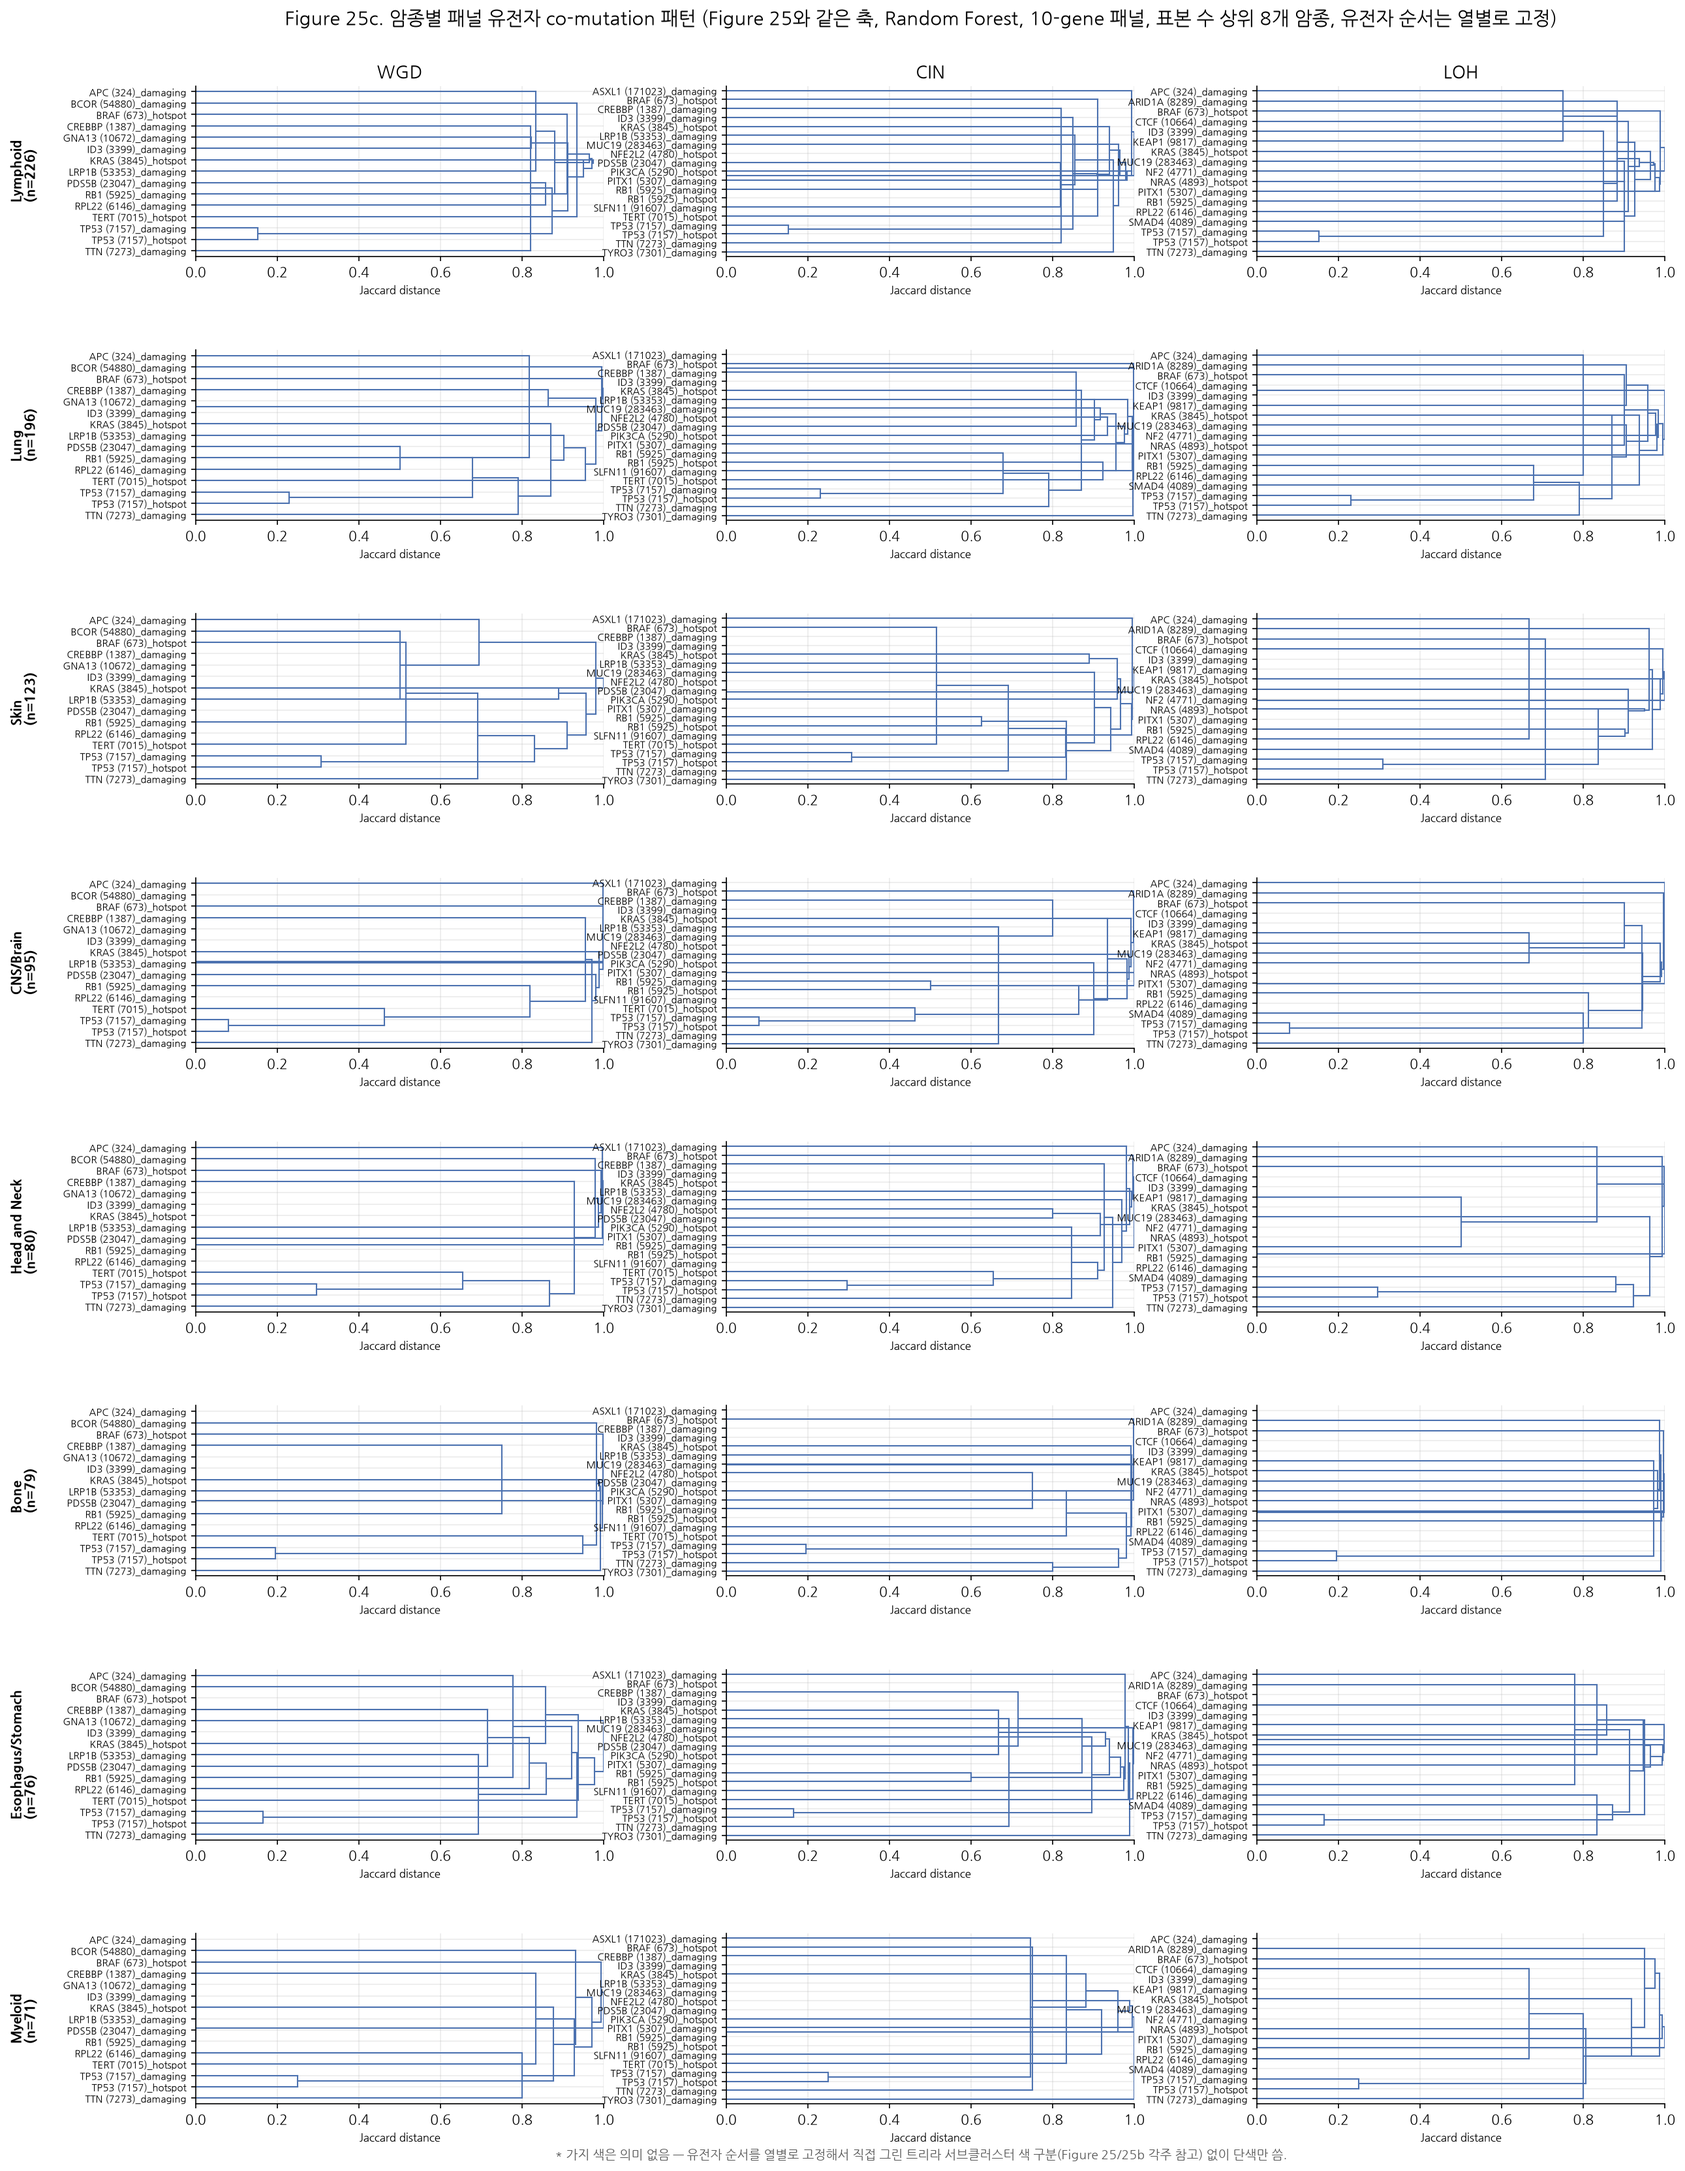
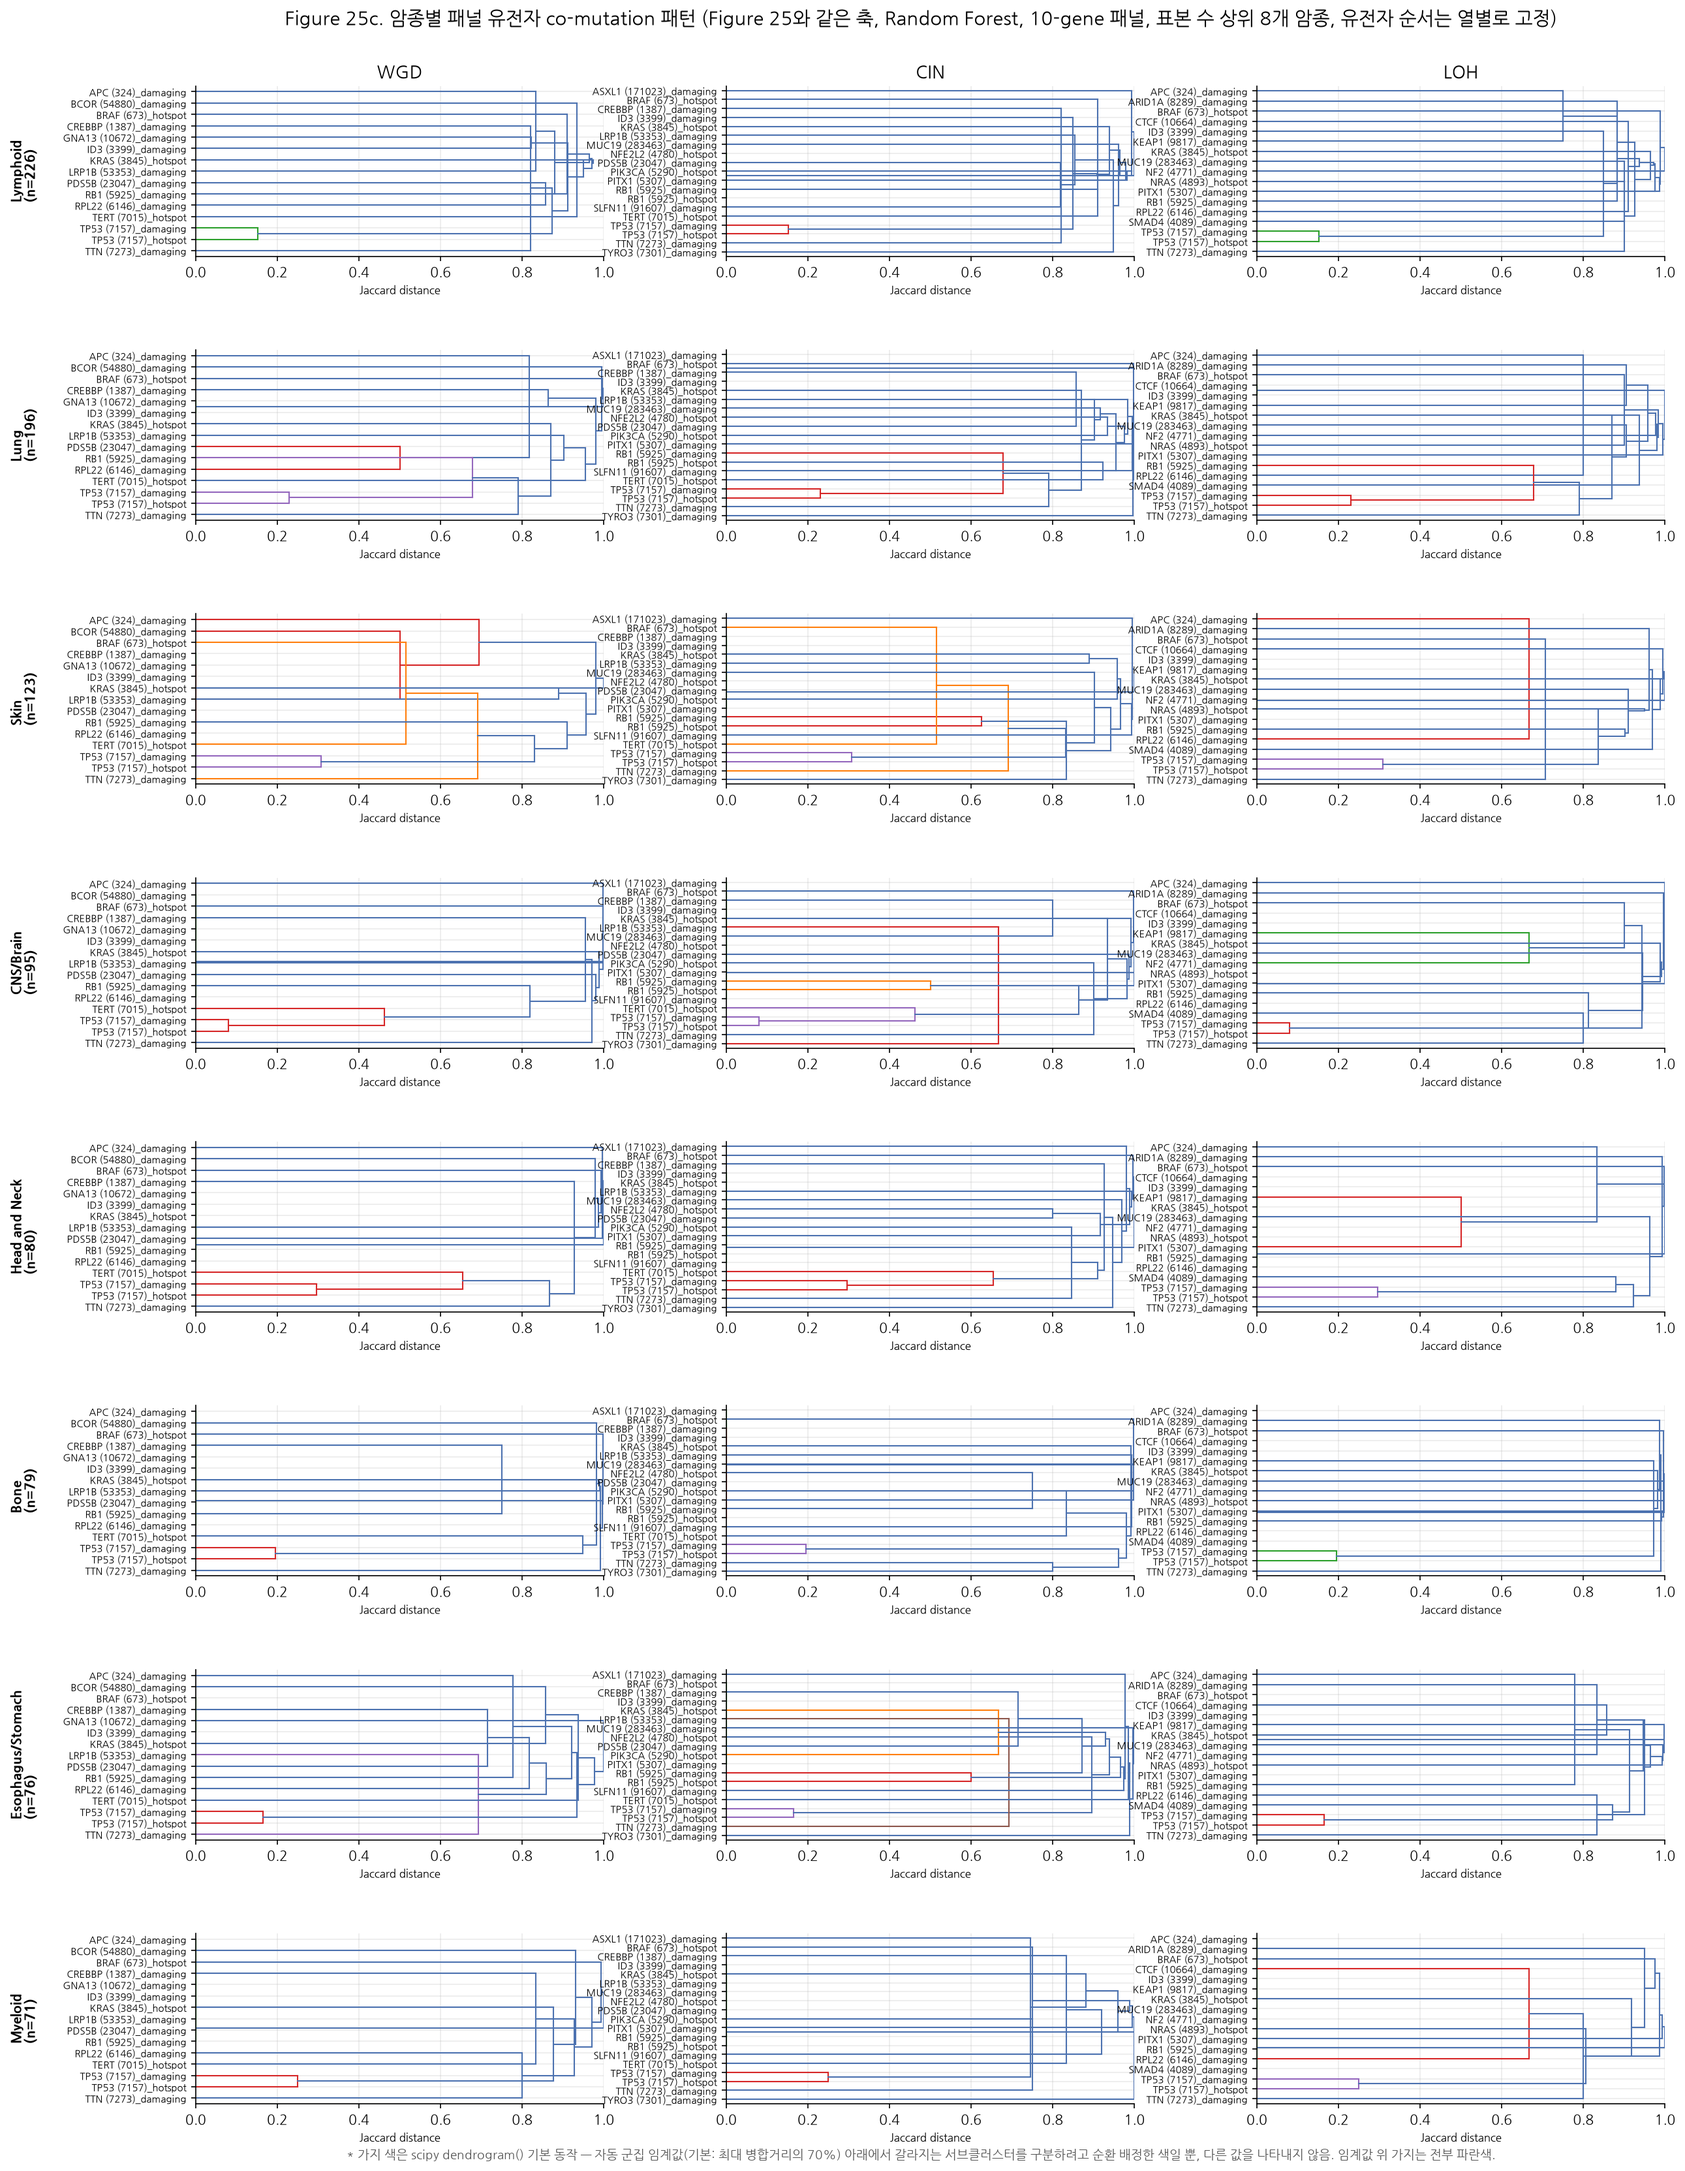
scripts: Fig25c에 Fig25/25b와 같은 서브클러스터 색 추가
draw_fixed_order_dendrogram()이 이제 scipy dendrogram()과 같은 규칙으로
색을 칠한다 — threshold(기본 최대 병합거리의 70%) 아래 서브클러스터마다
색 순환 배정, 위는 전부 기본색. 고정 잎 순서는 그대로 유지. 각주도
Fig25/25b와 같은 COLOR_NOTE로 통일.

Changed region(s): [[0.2169, 0.991, 0.5577, 1.0], [0.5887, 0.991, 0.8675, 1.0]]

diff --git a/scripts/48_plot_selection_dendrogram.py b/scripts/48_plot_selection_dendrogram.py
@@ -27,6 +27,8 @@ from pathlib import Path
 
 sys.path.insert(0, str(Path(__file__).resolve().parents[1]))
 
+import itertools
+
 import matplotlib.pyplot as plt
 import numpy as np
 import pandas as pd
@@ -103,8 +105,11 @@ def plot_lineage_dendrogram(model: str, panel_size: int) -> Path:
     return save(fig, f"fig25b_lineage_dendrogram_{model}_panel{panel_size}.png")
 
 
+CLUSTER_PALETTE = ("#2ca02c", "#d62728", "#9467bd", "#ff7f0e", "#8c564b", "#e377c2", "#bcbd22", "#17becf")
+
+
 def draw_fixed_order_dendrogram(ax, Z: np.ndarray, labels: list[str], fixed_order: list[str],
-                                 color: str = "#4c72b0") -> None:
+                                 above_color: str = "#4c72b0", threshold: float | None = None) -> None:
     """`labels` 순서의 잎을 `fixed_order`가 정한 y위치에 강제로 그린다.
 
     scipy dendrogram()은 잎 순서를 군집 결과에 따라 매번 다르게 정하므로,
@@ -112,22 +117,41 @@ def draw_fixed_order_dendrogram(ax, Z: np.ndarray, labels: list[str], fixed_orde
     Z 그대로 쓰되, 각 리프의 y좌표만 외부에서 고정하고 내부 노드는 자식의
     y좌표 평균으로 재귀 계산해 직접 선을 그린다 — 선이 교차할 수 있지만
     병합 구조(거리)는 정확하다.
+
+    색은 scipy dendrogram()과 같은 규칙(COLOR_NOTE 참고): threshold(기본
+    최대 병합거리의 70%) 아래에서 갈라지는 서브클러스터마다 색을 순환
+    배정하고, threshold 위 가지는 전부 above_color.
     """
     pos = {label: i for i, label in enumerate(fixed_order)}
     tree = to_tree(Z)
+    if threshold is None:
+        threshold = 0.7 * Z[:, 2].max() if len(Z) else 0.0
+    color_cycle = itertools.cycle(CLUSTER_PALETTE)
+    cluster_color = {}
 
-    def recurse(node):
+    def color_for(cluster_id: int) -> str:
+        if cluster_id not in cluster_color:
+            cluster_color[cluster_id] = next(color_cycle)
+        return cluster_color[cluster_id]
+
+    def recurse(node, cluster_id: int | None):
         if node.is_leaf():
             return pos[labels[node.id]], 0.0
-        y_left, x_left = recurse(node.left)
-        y_right, x_right = recurse(node.right)
+        if node.dist <= threshold:
+            cluster_id = cluster_id if cluster_id is not None else node.id
+            color = color_for(cluster_id)
+        else:
+            cluster_id = None
+            color = above_color
+        y_left, x_left = recurse(node.left, cluster_id)
+        y_right, x_right = recurse(node.right, cluster_id)
         x_node = node.dist
         ax.plot([x_left, x_node], [y_left, y_left], color=color, lw=1)
         ax.plot([x_right, x_node], [y_right, y_right], color=color, lw=1)
         ax.plot([x_node, x_node], [y_left, y_right], color=color, lw=1)
         return (y_left + y_right) / 2, x_node
 
-    recurse(tree)
+    recurse(tree, None)
     ax.set_yticks(range(len(fixed_order)))
     ax.set_yticklabels(fixed_order, fontsize=7)
     ax.set_ylim(-0.5, len(fixed_order) - 0.5)
@@ -182,9 +206,7 @@ def plot_lineage_feature_dendrogram(model: str, panel_size: int, top_n: int = TO
     fig.suptitle(f"Figure 25c. 암종별 패널 유전자 co-mutation 패턴 (Figure 25와 같은 축, "
                  f"{MODEL_LABEL.get(model, model)}, {panel_size}-gene 패널, "
                  f"표본 수 상위 {top_n}개 암종, 유전자 순서는 열별로 고정)", y=0.985, fontsize=14)
-    fig.text(0.5, 0.005, "* 가지 색은 의미 없음 — 유전자 순서를 열별로 고정해서 직접 그린 트리라 "
-                          "서브클러스터 색 구분(Figure 25/25b 각주 참고) 없이 단색만 씀.",
-             ha="center", fontsize=9, color="#555")
+    fig.text(0.5, 0.005, COLOR_NOTE, ha="center", fontsize=9, color="#555")
     return save(fig, f"fig25c_lineage_feature_dendrogram_{model}_panel{panel_size}.png")
 
 
